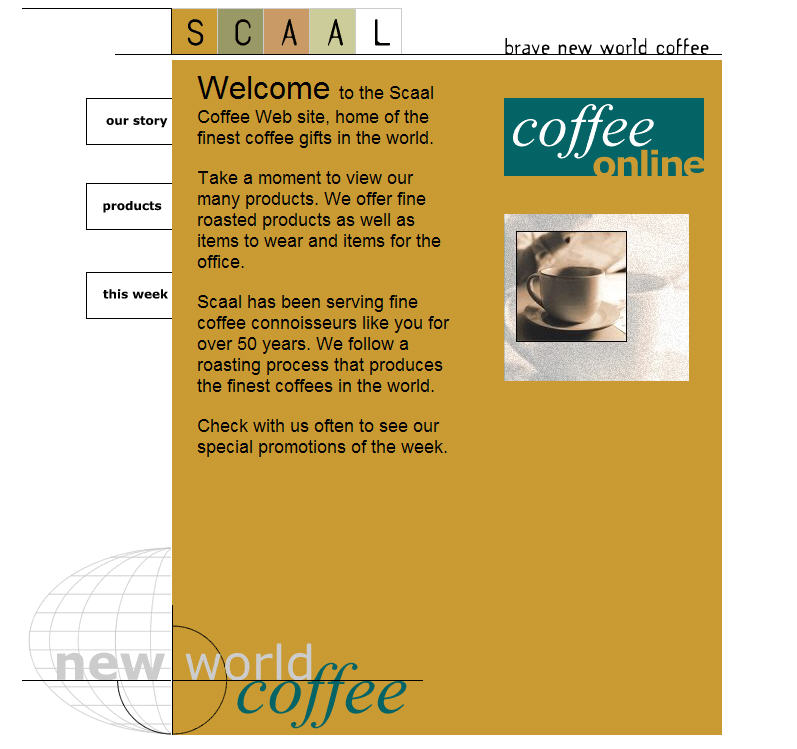
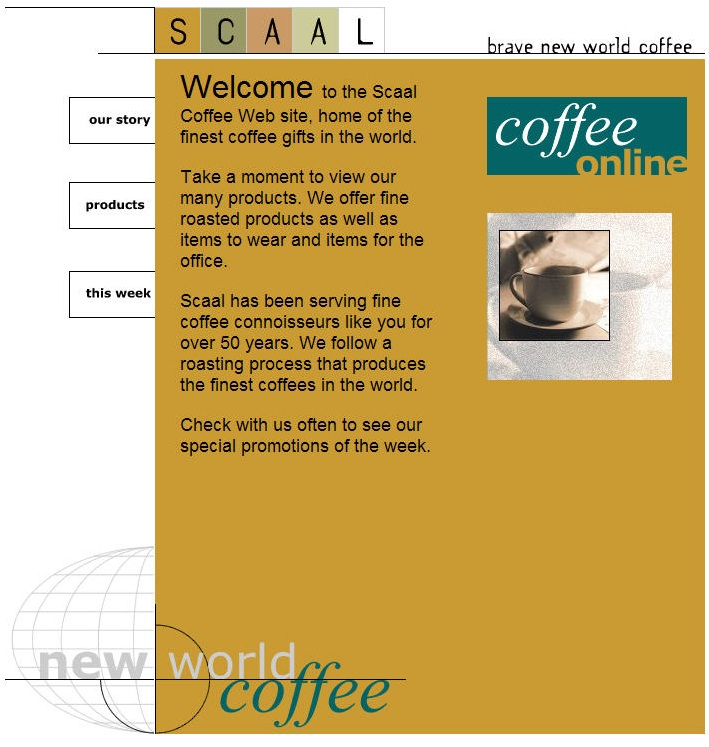
Update index

diff --git a/index.html b/index.html
@@ -1,2 +1,61 @@
-<hmtl>
+<!DOCTYPE html>
+<html lang="vi">
+  <head>
+    <meta charset="UTF-8" />
+    <meta name="viewport" content="width=device-width, initial-scale-1.0" />
+    <title>TÁC GIẢ TRẺ - tin tức mới nhất</title>
+  </head>
+  <body>
+    <table border="0" width="85%" cellpadding="0" cellspacing="0">
+      <tr>
+        <td colspan="3" width="99%">
+          <img src="Images/logo_scaal.gif" alt="logo" width="99%" />
+        </td>
+      </tr>
+
+      <tr>
+        <td width="22%" align="right" valign="top">
+          <br />
+          <a href="story.html">
+            <img src="Images/ourstory_up.gif" alt="OutStory" />
+          </a>
+          <br /><br />
+
+          <img src="Images/products_up.gif" alt="Products" /> <br /><br />
+          <img src="Images/thisweek_up.gif" alt="ThisWeek" />
+        </td>
+
+        <td  style="padding: 15px; padding-left: 15px ; width: 39%; background-color:#CA9B33 ;">
+          <p style="font-family: Arial, Helvetica, sans-serif">
+            <b><font size="6">Welcome</font></b> to the Scaal Coffee Web site,
+            home of the finest coffee gifts in the world.
+          </p>
+          <p>
+            Take a moment to view our many products. We offer fine roasted
+            products as well as items to wear and items for the office.
+          </p>
+          <p>
+            Scaal has been serving fine coffee connoisseurs like you for over 50
+            years. We follow a roasting process that produces the finest coffees
+            in the world.
+          </p>
+          <p>Check with us often to see our special promotions of the week.</p>
+        </td>
+        <td width="39 %" align="center" bgcolor="#CA9B33">
+          <img src="Images/coffee_online.gif" alt="CoffeeOnline" /> <br /><br />
+          <img src="Images/cup.jpg" alt="Cup" />
+        </td>
+      </tr>
+
+      <tr>
+        <td align="right">
+          <img src="Images/logo_globe_a.gif" alt="GlobeA" />
+        </td>
+        <td valign="bottom" bgcolor="#CA9B33">
+          <img src="Images/logo_globe_b.gif" alt="GlobeB" />
+        </td>
+        <td bgcolor="#CA9B33"></td>
+      </tr>
+    </table>
+  </body>
 </html>

diff --git a/story.html b/story.html
@@ -1,0 +1,13 @@
+<!DOCTYPE html>
+<html lang="vi">
+    <head>
+        <meta charset="UTF-8">
+        <meta name="viewport" content="width=device-width, initial-scale=1">
+        <title></title>
+    </head>
+    <body>
+        <p>
+            abc
+        </p>
+    </body>
+</html>
